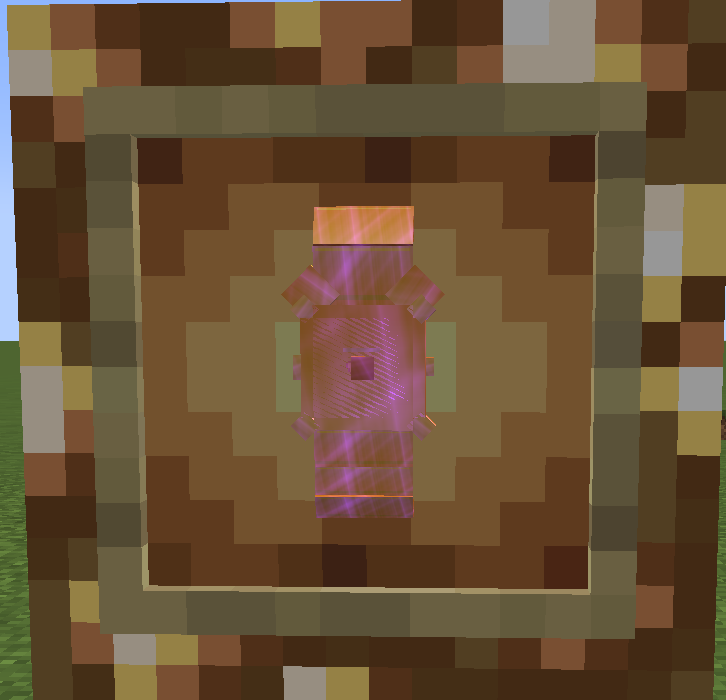
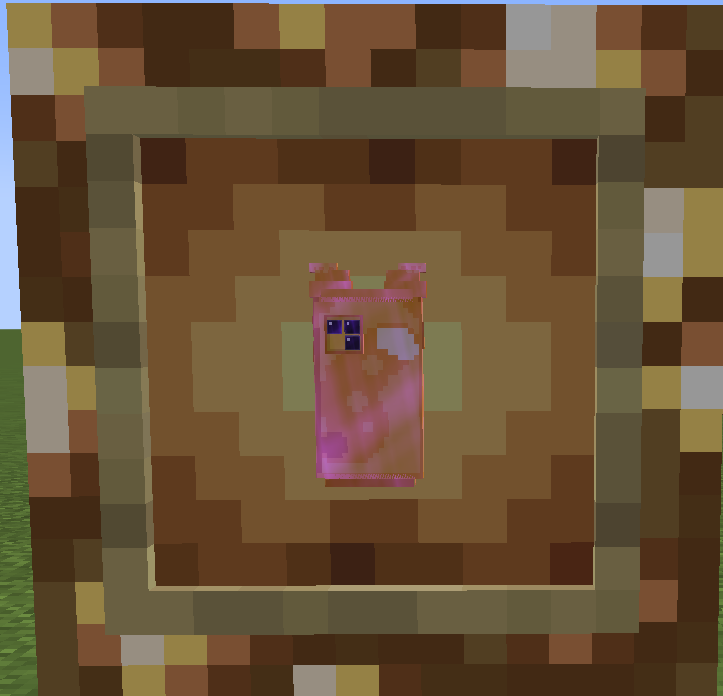
1.10推送前git

diff --git a/src/main/java/com/huhutalk/phone/PhoneOverlay.java b/src/main/java/com/huhutalk/phone/PhoneOverlay.java
@@ -2014,7 +2014,7 @@ public class PhoneOverlay {
         fillRoundedRect(graphics, baseX, baseY, w, h, 0, PhoneText.px(WATERMARK_H), WATERMARK_BG);
         String version = ModList.get().getModContainerById(HuhuTalk.MOD_ID)
                 .map(c -> c.getModInfo().getVersion().toString())
-                .orElse("1.0.1");
+                .orElse("1.1.0");
         Component comp = Component.literal("HUHUTALK  VISION " + version)
                 .withStyle(s -> s.withBold(true));
         FormattedCharSequence seq = comp.getVisualOrderText();

diff --git a/README.md b/README.md
@@ -1,34 +1,57 @@
-HuhuTalk
-Minecraft NeoForge 1.21.1 模组，给车万女仆增加一套手机聊天 UI，支持表情包、拍照识图、语音消息、位置查询等功能。
-✨ 功能特性
-📱 仿手机风格聊天界面，独立私密对话，不污染游戏公屏
-😊 LLM 驱动表情包交互，发送表情包给女仆，支持表情回复
-📷 游戏内拍照识图，截图交由视觉大模型解析后交给对话模型
-🎤 语音消息输入，硅基流动语音识别支持
-📍 查询女仆位置，对接 JourneyMap 可查看女仆坐标
-✨ 全套界面动画，全局动画开关，动画期间右键拥有最高返回优先级
-🌙 手机屏幕亮度调节，适配游戏暗环境
-📝 复用车万女仆原模组 AI 能力，基于原女仆大模型调用链路扩展
-🧩 依赖
-Minecraft：1.21.1
-Loader：NeoForge
-前置模组：车万女仆 (Touhou Maid)
-📥 安装
-安装 NeoForge 1.21.1
-安装车万女仆前置模组
-将本模组 jar 放入mods文件夹
-启动游戏，设置 AI 密钥即可使用手机聊天功能
-⚙ 配置
-游戏内模组配置页：
-设置大模型 API 密钥、接口地址
-切换语音识别后端（硅基流动等）
-调节手机 UI 屏幕亮度
-开关 UI 动画，调整相关交互行为
-📜 开源协议
-Apache‑2.0 License
-本项目基于 Apache‑2.0 协议开源，二次分发、修改请遵守协议条款。
-📦 Release
-GitHub Releases
-📌 注意事项
-识图功能会上传游戏截图到配置的视觉模型服务，请确认你使用Deepseek模型服务的隐私政策
-本模组为附属扩展模组，不能脱离车万女仆独立运行
+# HuhuTalk（狐狐 Talk）
+
+[English](README.en.md) · [更新日志 / Changelog](CHANGELOG.md) · [1.1.0 发布说明](docs/releases/1.1.0.md)
+
+为 **Minecraft 1.21.1 / NeoForge** 上的 **Touhou Little Maid（车万女仆）** 提供手机式远程聊天与摄影体验。当前准备版本：**1.1.0**。
+
+## 功能
+
+- 可手持的手机物品与专用手机界面，更新的手机、电话手表及 Wi-Fi 方块模型。
+- 私密聊天、表情包、语音输入、图片消息、联系人管理与自然语言指令。
+- 后摄与自拍：自拍实时预览左右镜像，保存照片恢复正常方向。桌面相机拍摄后直接保存，聊天内相机保留确认、发送与重拍流程。
+- 可选择识图平台与模型，并填写玩家、女仆外貌描述，为图片理解提供身份线索；识别结果取决于模型能力与配置。
+- 新桌面图标与布局管理；设置 App 图标可移动、不可删除。
+- 按 O 唤出独立悬浮屏，无需持有手机；保留视角控制，以手机独立光标和绑定确认键拖动状态栏调整位置。
+- 设置 App →「显示与渲染」集中管理屏幕比例、大小、字体倍率、亮度及「墨水屏」。HuhuTalk 内部设置保留图标风格等选项。
+- 中文、英文界面与手册，随 Minecraft 语言切换；AI 回复语言由模型及对话配置决定。
+
+## 安装与要求
+
+| 组件 | 要求 |
+| --- | --- |
+| Minecraft | 1.21.1 |
+| Java | 21 |
+| NeoForge | 21.1.243 或更高的 1.21.1 对应版本 |
+| Touhou Little Maid | 必需，元数据最低 1.5.0；开发验收使用 1.5.3 NeoForge 1.21.1 |
+| JourneyMap | 可选，用于路径点相关功能 |
+| Iris / 光影包 | 可选，不随本模组分发 |
+
+安装上述必需组件，将 `huhutalk-1.1.0.jar` 放入所用实例的 `mods` 文件夹。联网服务器与客户端需要匹配的模组版本。升级已有世界前请备份存档及配置；本模组不能脱离车万女仆单独使用。
+
+进入游戏后先配置车万女仆的聊天模型服务，再按需在桌面「设置」App 配置识图。平台密钥配置权限沿用车万女仆的服务端规则。每个世界首次进入的礼包包含 Pro 版手机、电话手表与 Wi-Fi 方块。操作细节见手机内「手册」App，键位可在 Minecraft 控制设置中修改。
+
+## 光影与墨水屏
+
+「墨水屏」**默认关闭**：手持手机屏幕在光影后处理完成后绘制，保留界面原色与稳定亮度。开启后在光影处理前绘制，参与光影效果，可能出现光影包自身的泛光或重影。它只改变渲染顺序，不模拟黑白、低刷新或独立的环境亮度；独立悬浮屏不受此开关影响。
+
+本阶段针对 Iris 1.8.14-beta.1、Complementary Reimagined r5.9.3 与 BSL 10.1.8 做过开发环境验证。其他加载器、光影版本和配置仍需实测；不保证所有组合兼容。详见[光影兼容说明](docs/phone-screen-shader-compat.md)。
+
+## 模型服务与数据
+
+聊天、识图及语音功能依赖配置的外部服务，可能产生费用。发送图片进行识图时，图片及相关提示会交给所选模型服务处理；请按自己的数据需求选择平台。手册和界面英文化不强制改变 AI 回复语言。
+
+## 从源码构建
+
+使用 Java 21，在仓库根目录运行：
+
+```bat
+gradlew.bat build
+```
+
+产物位于 `build/libs/huhutalk-1.1.0.jar`。依赖已缓存时可加 `--offline --console=plain`。仓库 `gradle.properties` 含开发者本地代理配置，请按自己的网络环境调整。光影开发依赖仅在显式 `-PshaderDev=true` 时启用，见[光影开发环境](docs/shader-dev.md)，不会打包进模组。
+
+## 反馈与协议
+
+请通过 [GitHub Issues](https://github.com/LUOCHUNsemianimus/huhutalk/issues) 提供问题表现、模组/加载器版本，以及相关光影名称和版本。提交日志前移除 API 密钥等私人信息。
+
+项目遵循 [Apache-2.0](LICENSE)。由罗春使用 AI 工作流协助开发；感谢车万女仆及相关项目、资源作者与测试玩家。

diff --git a/README.en.md b/README.en.md
@@ -1,0 +1,57 @@
+# HuhuTalk
+
+[简体中文](README.md) · [Changelog](CHANGELOG.md) · [1.1.0 release notes](docs/releases/1.1.0.md)
+
+A phone-style remote chat and photography add-on for **Touhou Little Maid** on **Minecraft 1.21.1 / NeoForge**. Version being prepared: **1.1.0**.
+
+## Features
+
+- A handheld phone item and dedicated interface, with refreshed phone, smartwatch and Wi-Fi block models.
+- Private chat, stickers, voice input, image messages, contact management and natural-language commands.
+- Rear camera and selfies: mirrored live selfie previews and normally oriented saved photos. The desktop camera saves immediately; the chat camera keeps its confirmation, send and retake flow.
+- Selectable vision providers and models, with player and maid appearance descriptions to provide identity context. Recognition depends on the chosen model and configuration.
+- Refreshed app icons and desktop layout management. The Settings app icon can be moved but cannot be deleted.
+- Press O to open a standalone floating screen without holding a phone. Keep camera control and use the phone cursor plus the bound confirm key to drag its status bar.
+- Settings app → Display & Rendering groups aspect ratio, phone size, font scale, brightness and E-ink Screen. Icon style and other app-specific options remain in HuhuTalk's internal settings.
+- Chinese and English interface/manual selected by Minecraft language. AI response language still follows the model and conversation configuration.
+
+## Installation and requirements
+
+| Component | Requirement |
+| --- | --- |
+| Minecraft | 1.21.1 |
+| Java | 21 |
+| NeoForge | 21.1.243 or a newer build for 1.21.1 |
+| Touhou Little Maid | Required; metadata minimum 1.5.0, development verification uses 1.5.3 for NeoForge 1.21.1 |
+| JourneyMap | Optional, for waypoint-related features |
+| Iris / shader packs | Optional; distributed separately |
+
+Install the required components and place `huhutalk-1.1.0.jar` in your instance's `mods` folder. Use matching mod versions on the client and multiplayer server. Back up existing worlds and configuration before upgrading. Touhou Little Maid is required to use this add-on.
+
+Configure Touhou Little Maid's chat model service first, then configure vision in the desktop Settings app if needed. Editing provider credentials follows Touhou Little Maid's server-side permissions. The first-entry starter kit for each world contains a Pro phone, smartwatch and Wi-Fi block. See the in-game Manual app for controls; key bindings can be changed in Minecraft settings.
+
+## Shaders and E-ink Screen
+
+E-ink Screen is **off by default**: the held phone's screen is drawn after shader postprocessing, preserving interface colors and stable brightness. When enabled, the screen is drawn before shader processing and participates in the pack's effects, which may include bloom or ghosting. This changes render order only; it does not simulate grayscale, a low refresh rate or separate environmental brightness. The standalone floating screen is unaffected.
+
+Development checks covered Iris 1.8.14-beta.1, Complementary Reimagined r5.9.3 and BSL 10.1.8 during this development phase. Other loaders, versions and settings need their own testing; compatibility with every combination is not guaranteed. See [shader compatibility notes](docs/phone-screen-shader-compat.md).
+
+## Model services and data
+
+Chat, vision and speech features use configured external services and may incur charges. Sending an image for recognition sends that image and related prompts to the selected model service. Choose providers appropriate for your data requirements. English UI/manual support does not force English AI replies.
+
+## Building
+
+With Java 21, run from the repository root:
+
+```bat
+gradlew.bat build
+```
+
+The output is `build/libs/huhutalk-1.1.0.jar`. Add `--offline --console=plain` when dependencies are cached. The repository's `gradle.properties` contains local developer proxy settings; adjust them for your network. Shader development dependencies are opt-in with `-PshaderDev=true` and are not bundled in the mod. See [shader development](docs/shader-dev.md).
+
+## Feedback and license
+
+Report issues through [GitHub Issues](https://github.com/LUOCHUNsemianimus/huhutalk/issues), including mod/loader versions and shader pack details where relevant. Remove API keys and other private information before sharing logs.
+
+Licensed under [Apache-2.0](LICENSE). Developed by 罗春 with an AI-assisted workflow. Thanks to Touhou Little Maid, related projects and resource authors, and everyone who tested the mod.

diff --git a/CHANGELOG.md b/CHANGELOG.md
@@ -1,0 +1,49 @@
+# 更新日志 / Changelog
+
+## 1.1.0 — 待发布 / Pending release
+
+本节汇总从 `v1.0.0-beta` 之后的开发改动；不补造历史正式版本日期。
+This section summarizes development since `v1.0.0-beta`; no historical release dates are inferred.
+
+### 新增与改进 / Added and improved
+
+- 实体手持手机体验，以及手机、电话手表和 Wi-Fi 方块的新模型。
+  Handheld phone experience and refreshed phone, smartwatch and Wi-Fi block models.
+- 自拍前摄与实时镜像预览；保存照片为正常方向。桌面相机直接保存，聊天相机保留确认与重拍。
+  Selfie camera with mirrored live preview and normally oriented saved photos. Desktop capture saves immediately; chat capture retains confirmation and retake.
+- 识图平台/模型选择，玩家与女仆外貌描述，为女仆理解照片中的人物提供上下文。
+  Vision provider/model selection and player/maid appearance descriptions to help contextualize people in images.
+- 桌面 App 图标更新、图标布局管理及联系人分组等界面改进。
+  Refreshed desktop icons, icon layout management, contact grouping and UI refinements.
+- 中英文界面、系统提示和手册支持；手册小标题独立成行，功能段落间留空行。
+  Chinese/English interface, system messages and manual; separate manual subheadings and spaced feature blocks.
+- 设置 App 新增「显示与渲染」，迁入比例、大小、字体倍率、亮度；图标风格留在 HuhuTalk 内部设置。
+  New Display & Rendering page in the Settings app for aspect ratio, size, font scale and brightness; icon style remains in HuhuTalk's internal settings.
+- 新增默认关闭的「墨水屏」开关，仅调整手持手机屏幕在光影处理前/后的绘制顺序。
+  E-ink Screen toggle, off by default, controlling whether the held phone screen is drawn before or after shader processing.
+
+### 修复与调整 / Fixed and adjusted
+
+- 优化 Iris 光影下自拍渲染开销及兼容性；修复 BSL 下手机屏幕文字重影、泛光的默认绘制路径。
+  Reduced selfie rendering overhead and improved Iris compatibility; corrected the default phone-screen path for BSL text ghosting and bloom.
+- 调整特殊手持位置，保持模型与离屏界面对齐，改善生存 HUD 对屏幕内容的遮挡。
+  Adjusted the special holding position while keeping model and offscreen UI aligned, reducing survival HUD overlap.
+- O 键独立悬浮屏不再要求主手持有 Pro 手机；状态栏支持独立光标拖动，不改变手持手机屏幕的位置。
+  O no longer requires a Pro phone in the main hand; the standalone screen can be dragged by its status bar without moving the held phone screen.
+- 设置 App 图标允许移动但禁止删除；新手礼包改为 Pro 手机、电话手表、Wi-Fi 方块，并更新提示。
+  The Settings icon can be moved but not deleted; the starter kit now contains a Pro phone, smartwatch and Wi-Fi block with an updated notification.
+- 修正手册物品配图：电话手表、Wi-Fi 方块、Pro 手机分别对应正确图片。
+  Corrected manual illustrations for the smartwatch, Wi-Fi block and Pro phone.
+- 发布版本元数据统一到 1.1.0；主页链接修正，许可证标识与仓库现有 Apache-2.0 LICENSE 对齐。
+  Unified release metadata at 1.1.0; corrected the homepage link and aligned the license identifier with the existing Apache-2.0 LICENSE.
+
+### 升级与兼容说明 / Upgrade and compatibility
+
+Minecraft 1.21.1、Java 21、NeoForge 与车万女仆为必需组件。升级前备份存档和配置。墨水屏开启后可能重新出现所选光影包的泛光/重影；不同光影版本效果可能不同。界面语言切换不会强制改变 AI 回复语言。
+
+Minecraft 1.21.1, Java 21, NeoForge and Touhou Little Maid are required. Back up worlds and configuration before upgrading. Enabling E-ink Screen can reintroduce a shader pack's bloom/ghosting; results vary by pack and version. Interface language changes do not force the AI response language.
+
+## v1.0.0-beta
+
+仓库已有历史标签；本次不追溯重写其发布说明。
+Existing historical repository tag; its release notes are not reconstructed here.

diff --git a/docs/releases/1.1.0.md b/docs/releases/1.1.0.md
@@ -1,0 +1,35 @@
+# HuhuTalk 1.1.0
+
+Minecraft **1.21.1** · **NeoForge** · Java **21** · 需要 / Requires **Touhou Little Maid**
+
+## 中文
+
+本次更新带来实体手持手机与全新物品模型、自拍前摄、扩展的女仆识图配置，以及中英文界面和手册。
+
+- 自拍实时预览左右镜像，保存照片恢复正常方向；桌面相机直接保存，聊天相机保留确认与重拍。
+- 可选择识图平台与模型，并填写玩家、女仆的外貌描述以提供识别上下文。
+- 更新桌面图标和布局管理；设置图标可移动，不可删除。
+- 设置 App 新增「显示与渲染」，集中管理比例、大小、字体倍率和亮度；图标风格仍在 HuhuTalk 内部设置。
+- 「墨水屏」默认关闭：屏幕在光影处理后绘制。开启后参与光影效果，只改变渲染顺序，独立悬浮屏不受影响。
+- 优化 Iris 下的自拍开销和兼容性，改善 BSL 下默认屏幕绘制的重影/泛光。
+- O 键无需持有手机即可开启独立悬浮屏，以手机光标和确认键拖动状态栏；改善手持屏幕的生存 HUD 遮挡。
+- 更新新手礼包，修复手册物品配图并改善手册分段。
+
+升级前请备份存档和配置。需要 NeoForge 21.1.243 或更高的 1.21.1 对应版本，以及车万女仆（元数据最低 1.5.0；开发验收使用 1.5.3）。Iris 与光影包为可选项，不随模组分发；并非所有光影组合都已验证。模型服务可能收费，识图会把图片和相关提示交给所选服务。
+
+## English
+
+This update brings a handheld phone experience and refreshed item models, selfie photography, expanded maid vision configuration, and a Chinese/English interface and manual.
+
+- Mirrored live selfie preview with normally oriented saved photos; immediate desktop camera saving and the existing chat confirmation/retake flow.
+- Select vision providers/models and describe player/maid appearances to provide identity context.
+- Refreshed desktop icons and layout management; the Settings icon can move but cannot be deleted.
+- New Display & Rendering page in the Settings app for aspect ratio, size, font scale and brightness. Icon style remains in HuhuTalk's internal settings.
+- E-ink Screen is off by default, drawing the screen after shader processing. Enable it to participate in shader effects. It changes render order only and does not affect the standalone floating screen.
+- Reduced Iris selfie overhead and improved compatibility; improved the default phone-screen path for BSL ghosting/bloom.
+- Open the standalone screen with O without holding a phone, then drag its status bar using the phone cursor and confirm key. Improved survival HUD clearance for the held screen.
+- Updated starter kit, corrected item illustrations and improved manual paragraph spacing.
+
+Back up worlds and configuration before upgrading. Requires NeoForge 21.1.243 or a newer build for 1.21.1 and Touhou Little Maid (metadata minimum 1.5.0; development verification uses 1.5.3). Iris and shader packs are optional and distributed separately; not every shader combination has been tested. Model services may charge fees; image recognition sends images and related prompts to the selected service.
+
+[完整更新日志 / Full changelog](../../CHANGELOG.md) · [中文 README](../../README.md) · [English README](../../README.en.md)
